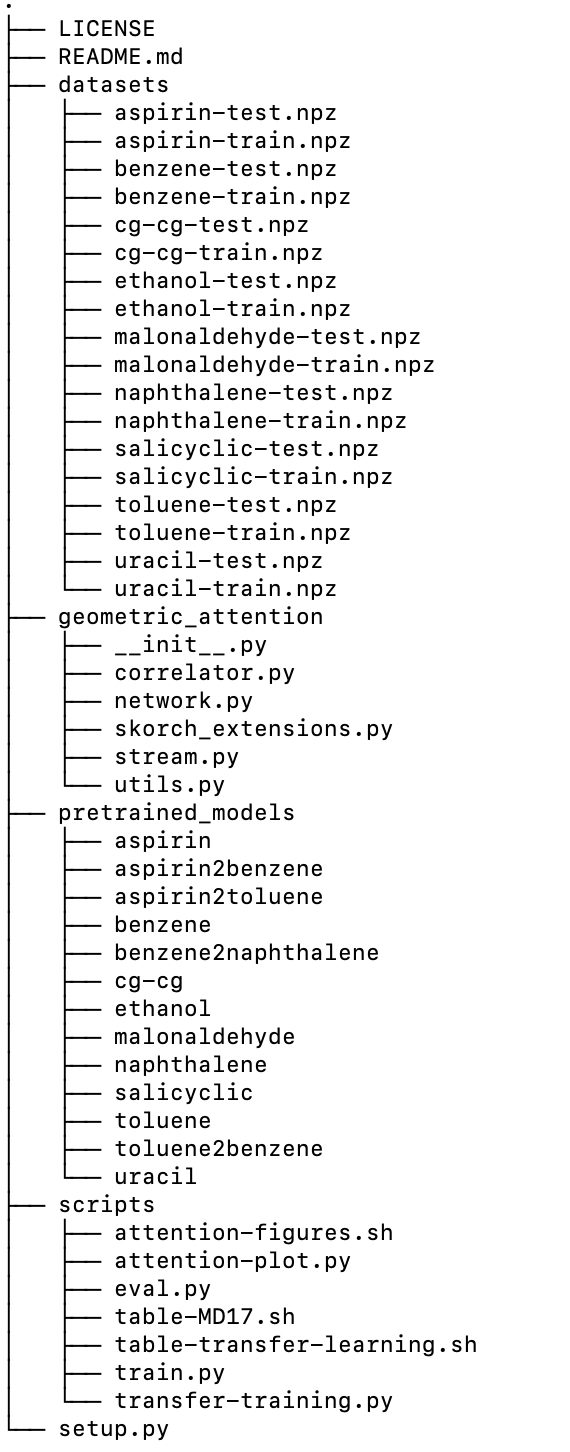
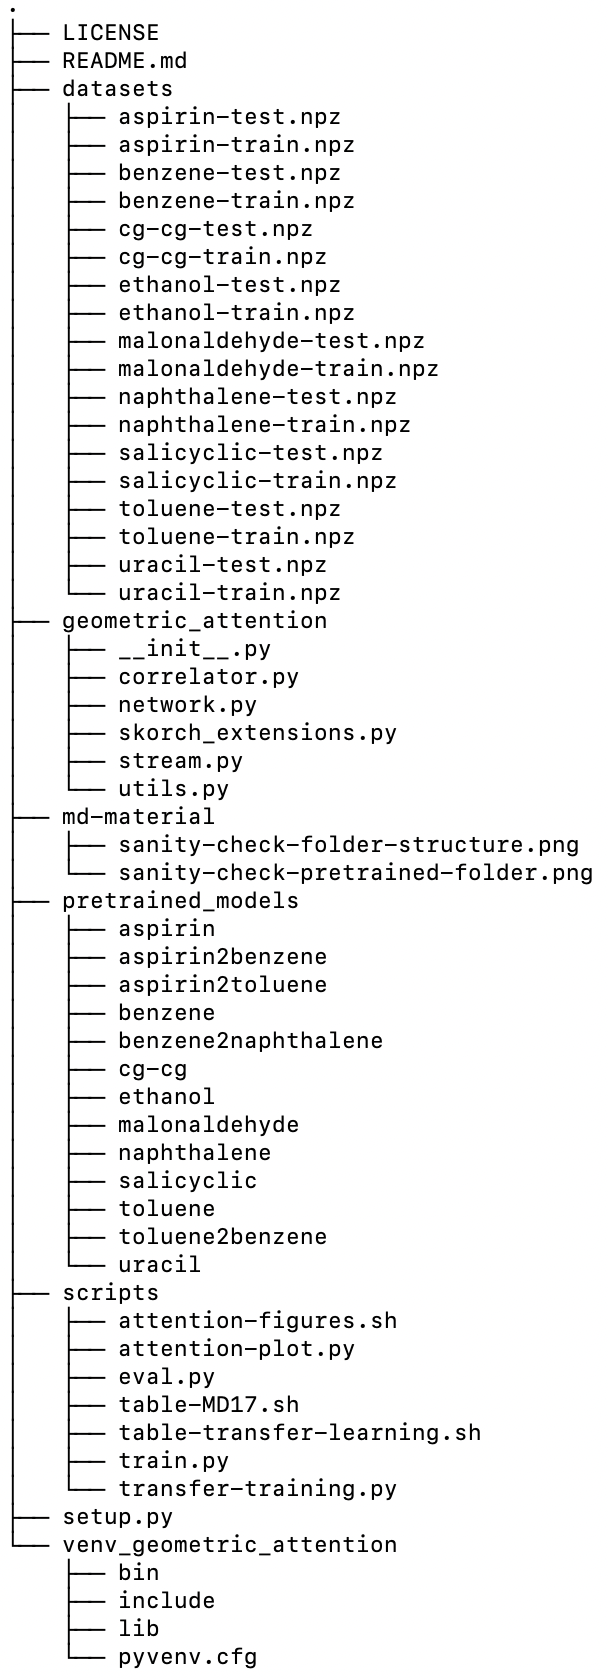
add virtual env creation to MD

diff --git a/README.md b/README.md
@@ -6,13 +6,23 @@ Clone the code to your local machine using
 `git clone https://github.com/thorben-frank/detect-the-interactions-that-matter-in-matter-geometric-attention-for-many-body-systems.git`
 
 
-All following setup commands are intended to be executed in in the folder in which the 
-`setup.py` file lies. 
-### Code
-To install the package geometric attention as well as
-all dependencies which are needed in the following run the command:
+Afterwards change into the directory `detect-the-interactions-that-matter-in-matter-geometric-attention-for-many-body-systems`.
 
-`pip install .`
+### Code
+
+#### Create a Virtual Environment
+Lets start by setting up a new virtual environment. Therefore, type
+
+`python3 -m venv venv_geometric_attention`
+
+which will setup a new virtual environment with the name `venv_geometric_attention`. Next activate the 
+virtual environment by using the command 
+
+`source venv_geometric_attention/bin/activate`
+
+To install the package geometric attention and all dependencies which are needed in the following run the command
+
+`pip3 install .`
 ### Getting the Data
 In the paper the MD17 data sets and a DNA data set are used. They can be downloaded [here](https://drive.google.com/drive/folders/1GmyFUGzHfw2OK2fpv_3AH285xpUZk8JA?usp=sharing).
 After unpacking the data please put the folder `datasets` into the `detect-the-interactions-that-matter-in-matter-attention-for-many-body-systems` folder.
@@ -38,18 +48,18 @@ These scripts give you the possibility to set all paths per hand.
 ### Training a Model
 Go into the script folder and run the command
 
-`python train.py --help`
+`python3 train.py --help`
 
 It will display explanation on the parameters that can be passed to the model. To train a *GeomAtt* network for some molecule is given as
 
-`python train.py --train_file <file-path> --save_path <directory>`
+`python3 train.py --train_file <file-path> --save_path <directory>`
 
 The parameter which specifies the path to the training file and a directory where the model should be saved are mandatory. When no further 
 parameters are passed to the script it will run with the default parameters which are listed in the table in the main paper
 in the appendix. For example training a *GeomAtt* network for `N_epochs=50` epochs on benzene with default parameters, correlation orders `k=2` and `k=3` 
 and inner product space dimension `Fi = 64` can be achieved by the command
 
-`python train.py --train_file ../datasets/benzene-train.npz --save_path ../user_trained_models/geomatt-benzene --orders 2 3 --Fi=64 --N_epochs=50`
+`python3 train.py --train_file ../datasets/benzene-train.npz --save_path ../user_trained_models/geomatt-benzene --orders 2 3 --Fi=64 --N_epochs=50`
 
 When running the training script from above the directory `../user_trained_models/geomatt-benzene` is created from where the script is run. 
 For the purpose of illustration relative paths are used here but we strongly recommend to use absolute paths instead, as they
@@ -59,18 +69,18 @@ hyperparameters and the network parameters with the lowest validation error.
 ### Evaluate a Model
 Type 
 
-`python eval.py --help`
+`python3 eval.py --help`
 
 for full details on parameters that can be passed to the evaluation script. 
 To validate a trained model on the test data use the command
 
-`python eval.py --model_path <directory> --evaluation_file <file-path> --train_file <file-path>`
+`python3 eval.py --model_path <directory> --evaluation_file <file-path> --train_file <file-path>`
 
 The parameter `--model_path` specifies the location where the model has been saved and the `--evaluation_file` sets the location of the 
 evaluation file. Additionally, one has to pass the file on which the model has been trained to `--train_file` in order to scale the output of the network
 properly. We can use this to evaluate our trained model from above on `N_eval = 100` test points
 
-`python eval.py --model_path ../user_trained_models/geomatt-benzene --evaluation_file ../datasets/benzene-test.npz --train_file ../datasets/benzene-train.npz --N_eval=100`
+`python3 eval.py --model_path ../user_trained_models/geomatt-benzene --evaluation_file ../datasets/benzene-test.npz --train_file ../datasets/benzene-train.npz --N_eval=100`
  
 When passing no argument for `N_eval = 100` all test points are used for evaluation. As this are up to 1M per molecule, 
 the parameter `N_eval` can be used if one is interested in a rough estimate for the model performance. The script 
@@ -79,12 +89,12 @@ outputs the mean absolute error (MAE) for energy and forces.
 ### Transfer Learning
 Type 
 
-`python transfer-learning.py --help`
+`python3 transfer-learning.py --help`
 
 for full details on parameters that can be passed to the transfer learning script. The transfer learning script handles 
 two things for you. If one runs the command
 
-`python transfer-training.py --train_file <file-path> --pretrained_path <directory> --save_path <directory>`
+`python3 transfer-training.py --train_file <file-path> --pretrained_path <directory> --save_path <directory>`
 
 the `transfer-training.py` script does the following things for you: It loads a pretrained model that has been trained 
 on some base molecule from `--pretrained_path`. It freezes all parameters apart from the last layer and retrains only 
@@ -93,7 +103,7 @@ transferred model is then saved to `--save_path`.
 
 If we want to transfer for example our trained benzene model to naphthalene we can do this by using the command
 
-`python transfer-training.py --train_file ../datasets/naphthalene-train.npz --pretrained_path ../user_trained_models/geomatt-benzene --save_path ../user_transferred_models/benzene2naphthalene --N_epochs=50`  
+`python3 transfer-training.py --train_file ../datasets/naphthalene-train.npz --pretrained_path ../user_trained_models/geomatt-benzene --save_path ../user_transferred_models/benzene2naphthalene --N_epochs=50`  
 
 In order to avoid confusion with the evaluation script we want to remark that the `--train_file` flag from above 
 corresponds to the file which is used to retrain the final layers.
@@ -101,7 +111,9 @@ corresponds to the file which is used to retrain the final layers.
 We can now evaluate the transferred model by using again the evaluation script in the fashion from before but with 
 adjusted paths
 
-`python eval.py --model_path ../user_transferred_models/benzene2naphthalene --evaluation_file ../datasets/naphthalene-test.npz --train_file ../datasets/naphthalene-train.npz --N_eval=100`
+`python3 eval.py --model_path ../user_transferred_models/benzene2naphthalene --evaluation_file ../datasets/naphthalene-test.npz --train_file ../datasets/naphthalene-train.npz --N_eval=100`
+## Results
+Here recap the results and link to the appropriate lines in the MD file.
 
 ## Reproduce the Paper Results using Pretrained Models
 After we have seen the general syntax for the python scripts we now proceed to give a guide on reproducing the results 
@@ -116,11 +128,11 @@ entry in the tables and each figure.
 As we have seen before a model can be evaluated using the `eval.py` script. For a given `<molecule-name>` this corresponds to
 run the command 
 
-`python eval.py --model_path ../pretrained_models/<molecule-name> --evaluation_file ../datasets/<molecule-name>-test.npz --train_file ..datasets/<molecule-name>-train.npz`
+`python3 eval.py --model_path ../pretrained_models/<molecule-name> --evaluation_file ../datasets/<molecule-name>-test.npz --train_file ..datasets/<molecule-name>-train.npz`
 
 E.g. for aspirin one should run
 
-`python eval.py --model_path ../pretrained_models/aspirin --evaluation_file ../datasets/aspirin-test.npz --train_file ..datasets/aspirin-train.npz --N_eval=250`
+`python3 eval.py --model_path ../pretrained_models/aspirin --evaluation_file ../datasets/aspirin-test.npz --train_file ..datasets/aspirin-train.npz --N_eval=250`
 
 which evaluates the aspirin model on 250 test points. In order to get the exact same values as in the table reported in the 
 paper and below just remove the `--N_eval` flag. Other molecules work similar.
@@ -129,14 +141,14 @@ paper and below just remove the `--N_eval` flag. Other molecules work similar.
 The entries in the transfer learning table can be reproduced in a similar fashion where we just reset the paths. In general
 the command for this looks the following
 
-`python eval.py --model_path ../pretrained_models/<base-molecule>2<target-molecule> --evaluation_file ../datasets/<target-molecule>-test.npz --train_file ..datasets/<target-molecule>-train.npz`
+`python3 eval.py --model_path ../pretrained_models/<base-molecule>2<target-molecule> --evaluation_file ../datasets/<target-molecule>-test.npz --train_file ..datasets/<target-molecule>-train.npz`
 
 The placeholder `<base_molecule>` describes the molecule on which the network has been originally trained and 
 `<target-molecule>` is a placeholder for the molecule to which the base molecule network has been transferred.
 
 E.g. for aspirin to benzene one should run
 
-`python eval.py --model_path ../pretrained_models/aspirin2benzene --evaluation_file ../datasets/benzene-test.npz --train_file ..datasets/benzene-train.npz --N_eval=250`
+`python3 eval.py --model_path ../pretrained_models/aspirin2benzene --evaluation_file ../datasets/benzene-test.npz --train_file ..datasets/benzene-train.npz --N_eval=250`
 
 which evaluates the model for aspirin transfered to benzene on 250 test points. In order to get the exact same values as in the table reported in the 
 paper and below just remove the `--N_eval` flag. Other molecules work similar.
@@ -145,11 +157,11 @@ paper and below just remove the `--N_eval` flag. Other molecules work similar.
 The plots for the attention matrices can be generated by using the script `attention-plot.py` for which details can be 
 displayed by typing
 
-`python attention-plot.py --help`
+`python3 attention-plot.py --help`
 
 The general command to create a figure is then given as 
 
-`python attention-plot.py --model_path <directory> --evaluation_file <file-path> --figure_folder <directory> --L=<int> --k=<int> --i=<int> --N_eval=<int>`
+`python3 attention-plot.py --model_path <directory> --evaluation_file <file-path> --figure_folder <directory> --L=<int> --k=<int> --i=<int> --N_eval=<int>`
 
 The flags `--L` `--k` and `--i ` determine the layer number, the order of the stream and the test point index 
 which is used the generate the attention matrix plot. Note that there is an additional flag `--N_eval` which determines 
@@ -158,19 +170,19 @@ the total number of evaluation points used (defaults to 10). Thus, `--i` must no
 
 For figure 5 upper part run
 
-`python attention-plot.py --model_path ../pretrained_models/aspirin --evaluation_file ../datasets/aspirin-test.npz --figure_folder ../figures/figure5_upper --L=1 --k=2 --i=1 --N_eval=1`
+`python3 attention-plot.py --model_path ../pretrained_models/aspirin --evaluation_file ../datasets/aspirin-test.npz --figure_folder ../figures/figure5_upper --L=1 --k=2 --i=1 --N_eval=1`
 
 and for the lower part
 
-`python attention-plot.py --model_path ../pretrained_models/aspirin2benzene --evaluation_file ../datasets/benzene-test.npz --figure_folder ../figures/figure5_lower --L=1 --k=2 --i=1 --N_eval=1`
+`python3 attention-plot.py --model_path ../pretrained_models/aspirin2benzene --evaluation_file ../datasets/benzene-test.npz --figure_folder ../figures/figure5_lower --L=1 --k=2 --i=1 --N_eval=1`
 
 For figure 6.b run 
 
-`python attention-plot.py --model_path ../pretrained_models/cg-cg --evaluation_file ../datasets/cg-cg-test.npz --figure_folder ../figures/figure_6b --L=1 --k=2 --i=1 --N_eval=1`
+`python3 attention-plot.py --model_path ../pretrained_models/cg-cg --evaluation_file ../datasets/cg-cg-test.npz --figure_folder ../figures/figure_6b --L=1 --k=2 --i=1 --N_eval=1`
 
 and for figure 6.c run
 
-`python attention-plot.py --model_path ../pretrained_models/cg-cg --evaluation_file ../datasets/cg-cg-test.npz --figure_folder ../figures/figure_6c --L=2 --k=2 --i=1 --N_eval=1`
+`python3 attention-plot.py --model_path ../pretrained_models/cg-cg --evaluation_file ../datasets/cg-cg-test.npz --figure_folder ../figures/figure_6c --L=2 --k=2 --i=1 --N_eval=1`
 
 ### Using the Shell Scripts
 Executing the commands all by hand is tedious which is why we provide shell scripts to ease the usage. **A word of 
@@ -213,11 +225,11 @@ This can be easily achieved with the python scripts already describes.
 Start by training the model using the default parameters which just corresponds to not passing any addtional 
 flags to the `train.py` script
 
-`python train.py --train_file <file-path> --save_path <directory>`
+`python3 train.py --train_file <file-path> --save_path <directory>`
 
 If we want to transfer our learned model to a different molecule we use the `transfer-learning.py`
 
-`python transfer-training.py --train_file <file-path> --pretrained_path <directory> --save_path <directory>`
+`python3 transfer-training.py --train_file <file-path> --pretrained_path <directory> --save_path <directory>`
 
 The models can be evaluated and attention matrices plotted using the already described scripts `eval.py` and 
 `attention-plot.py`. 
